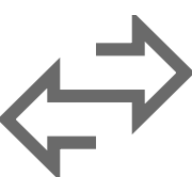
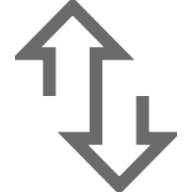
Day -11 Evening

diff --git a/lib/pages/home/home_tab.dart b/lib/pages/home/home_tab.dart
@@ -179,6 +179,7 @@ class _TapHomeState extends State<TapHome> {
                     ),
                     child: Row(
                       mainAxisAlignment: MainAxisAlignment.spaceBetween,
+                      crossAxisAlignment: CrossAxisAlignment.center,
                       children: [
                         Center(
                           child: Container(
@@ -201,7 +202,7 @@ class _TapHomeState extends State<TapHome> {
                                 currencyCodeFrom,
                                 style: TextStyle(
                                   color: Colors.white,
-                                  fontWeight: FontWeight.bold,
+                                  fontWeight: FontWeight.w600,
                                   fontSize: MyColors.fontsmall
                                       ? (MyColors.textSize - 20) * (-1)
                                       : MyColors.fontlarge
@@ -217,13 +218,15 @@ class _TapHomeState extends State<TapHome> {
                             width: MediaQuery.of(context).size.height * 0.24,
                             // width: 150,
                             child: AutoSizeTextField(
+                              textAlignVertical: TextAlignVertical.center,
+                              autocorrect: true,
                               maxLength: 34,
                               maxLines: 1,
                               maxFontSize: 18.0,
                               minFontSize: 7.0,
                               style: TextStyle(
                                 color: MyColors.insideTextFieldColor,
-                                fontWeight: FontWeight.bold,
+                                fontWeight: FontWeight.w600,
                                 fontSize: MyColors.fontsmall
                                     ? (MyColors.textSize - 18) * (-1)
                                     : MyColors.fontlarge
@@ -236,7 +239,7 @@ class _TapHomeState extends State<TapHome> {
                               showCursor: true,
                               readOnly: true,
                               decoration: const InputDecoration(
-                                  isDense: true, border: InputBorder.none),
+                                  counter: Text(""), border: InputBorder.none),
                               onTap: () {
                                 _isContainerVisible = false;
 
@@ -298,7 +301,7 @@ class _TapHomeState extends State<TapHome> {
                             child: TextFormField(
                               style: TextStyle(
                                 color: MyColors.insideTextFieldColor,
-                                fontWeight: FontWeight.bold,
+                                fontWeight: FontWeight.w600,
                                 fontSize: MyColors.fontsmall
                                     ? (MyColors.textSize - 20) * (-1)
                                     : MyColors.fontlarge
@@ -352,7 +355,7 @@ class _TapHomeState extends State<TapHome> {
                             child: TextField(
                               style: TextStyle(
                                 color: MyColors.insideTextFieldColor,
-                                fontWeight: FontWeight.bold,
+                                fontWeight: FontWeight.w600,
                                 fontSize: MyColors.fontsmall
                                     ? (MyColors.textSize - 20) * (-1)
                                     : MyColors.fontlarge
@@ -401,14 +404,13 @@ class _TapHomeState extends State<TapHome> {
                   _isContainerVisible
                       ? Container(
                           width: MediaQuery.of(context).size.width,
+                          height: 10,
                           constraints: const BoxConstraints(),
                           margin: EdgeInsets.only(
-                              right: MediaQuery.of(context).size.width * 0.10),
-                          child: const Icon(
-                            Icons.arrow_drop_up,
-                            // size: 50,
-
-                            color: Colors.red,
+                              right: MediaQuery.of(context).size.width * 0.8),
+                          child: Image.asset(
+                            "assets/images/tooltip.png",
+                            scale: 7,
                           ),
                         )
                       : Container(),
@@ -416,13 +418,10 @@ class _TapHomeState extends State<TapHome> {
                       ? Container(
                           constraints: const BoxConstraints(),
                           width: MediaQuery.of(context).size.width,
+                          height: 10,
                           padding: EdgeInsets.only(
-                              left: MediaQuery.of(context).size.width * 0.20),
-                          child: const Icon(
-                            Icons.arrow_drop_up,
-                            // size: 50,
-                            color: Colors.white,
-                          ),
+                              left: MediaQuery.of(context).size.width * 0.2),
+                          child: Image.asset("assets/images/tooltip.png"),
                         )
                       : Container(),
 
@@ -467,11 +466,15 @@ class _TapHomeState extends State<TapHome> {
                         : Padding(
                             padding: const EdgeInsets.all(16.0),
                             child: SizedBox(
+                              width: MediaQuery.of(context).size.width - 26,
                               child: Row(
                                 mainAxisAlignment: MainAxisAlignment.center,
                                 children: [
                                   AutoSizeText(
                                     text,
+                                    maxLines: 1,
+                                    maxFontSize: 18.0,
+                                    minFontSize: 7.0,
                                     style: TextStyle(
                                         color: MyColors.textColor,
                                         fontSize: MyColors.fontsmall
@@ -479,13 +482,15 @@ class _TapHomeState extends State<TapHome> {
                                             : MyColors.fontlarge
                                                 ? (MyColors.textSize + 25)
                                                 : 25,
-                                        fontWeight: FontWeight.bold),
+                                        fontWeight: FontWeight.w600),
                                   ),
                                   const SizedBox(
                                     width: 5,
                                   ),
                                   AutoSizeText(
                                     edtTo.text,
+                                    maxFontSize: 18.0,
+                                    minFontSize: 7.0,
                                     style: TextStyle(
                                         color: MyColors.textColor,
                                         fontSize: MyColors.fontsmall
@@ -493,7 +498,7 @@ class _TapHomeState extends State<TapHome> {
                                             : MyColors.fontlarge
                                                 ? (MyColors.textSize + 20)
                                                 : 20,
-                                        fontWeight: FontWeight.bold),
+                                        fontWeight: FontWeight.w600),
                                   ),
                                 ],
                               ),
@@ -641,7 +646,7 @@ class _TapHomeState extends State<TapHome> {
                 child: FlatButton(
                     shape: RoundedRectangleBorder(
                         borderRadius: BorderRadius.circular(0.0),
-                        side: BorderSide(
+                        side: const BorderSide(
                             //color: MyColors.colorPrimary,
                             width: 0.3,
                             style: BorderStyle.solid)),

diff --git a/lib/pages/second_screen.dart b/lib/pages/second_screen.dart
@@ -277,7 +277,7 @@ class _SecondScreenState extends State<SecondScreen> {
                                 child: Row(
                                   children: [
                                     Image.asset(
-                                      "assets/images/right-left.png",
+                                      "assets/images/up-down.png",
                                       scale: 9,
                                     ),
                                     const SizedBox(
